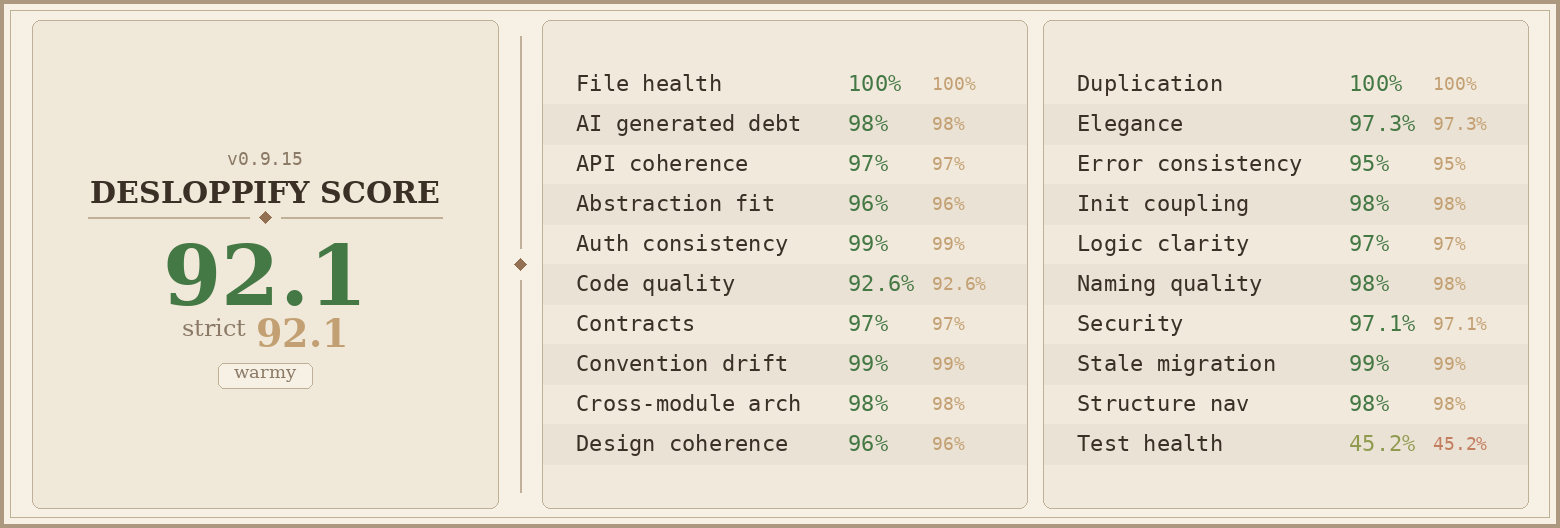
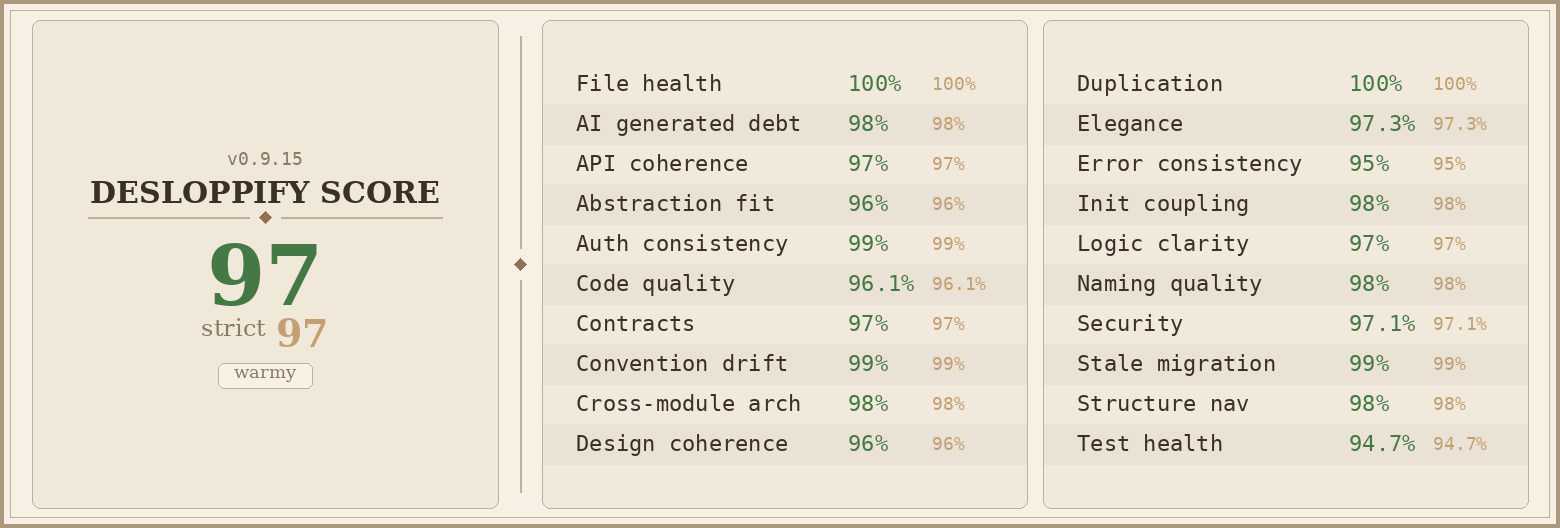
test: add tests for all command modules (16 files, 80 tests)
Add comprehensive tests for init.ts, status.ts, uninstall.ts, config.ts
commands. Each module now has dedicated tests with properly mocked
dependencies.

Changed region(s): [[0.0923, 0.4545, 0.2462, 0.6667], [0.8615, 0.8182, 0.9538, 0.8485], [0.5538, 0.5152, 0.5846, 0.5455]]

diff --git a/tests/commands/status.test.ts b/tests/commands/status.test.ts
@@ -1,0 +1,75 @@
+import { describe, it, vi, beforeEach, expect } from "vitest";
+
+vi.mock("../../dist/config.js", () => ({
+  loadConfig: vi.fn(),
+  getConfigPath: vi.fn().mockReturnValue("/tmp/.warmy/config.json"),
+}));
+vi.mock("../../dist/scheduler/index.js", () => ({ isSchedulerInstalled: vi.fn() }));
+vi.mock("fs", () => ({ existsSync: vi.fn() }));
+
+const STATUS_PATH = "/home/slay/projects/experiments/warmy/warmy/dist/commands/status.js";
+
+describe("status", () => {
+  beforeEach(() => { vi.clearAllMocks(); });
+
+  it("should show scheduler status", async () => {
+    const { loadConfig } = await import("../../dist/config.js");
+    const { isSchedulerInstalled } = await import("../../dist/scheduler/index.js");
+    vi.mocked(loadConfig).mockResolvedValue({
+      scheduleTime: "06:00", claudeEnabled: true, codexEnabled: false,
+      lastRun: null, lastWarmupAt: { claude: null, codex: null },
+      warmupIntervalSeconds: 18060, warmupMessage: "Hello",
+      lastResult: { claude: null, codex: null }
+    });
+    vi.mocked(isSchedulerInstalled).mockResolvedValue(true);
+
+    const consoleSpy = vi.spyOn(console, "log").mockImplementation(() => {});
+    const { status } = await import(STATUS_PATH);
+    await status();
+    expect(consoleSpy).toHaveBeenCalledWith(expect.stringContaining("Scheduler"));
+    consoleSpy.mockRestore();
+  });
+
+  it("should show next warmup when available", async () => {
+    const { loadConfig } = await import("../../dist/config.js");
+    const { isSchedulerInstalled } = await import("../../dist/scheduler/index.js");
+    vi.mocked(loadConfig).mockResolvedValue({
+      scheduleTime: "06:00", claudeEnabled: true, codexEnabled: true,
+      lastRun: null,
+      lastWarmupAt: { claude: "2026-01-01T00:00:00.000Z", codex: "2026-01-01T01:00:00.000Z" },
+      warmupIntervalSeconds: 18060, warmupMessage: "Hello",
+      lastResult: { claude: null, codex: null }
+    });
+    vi.mocked(isSchedulerInstalled).mockResolvedValue(false);
+
+    const consoleSpy = vi.spyOn(console, "log").mockImplementation(() => {});
+    const { status } = await import(STATUS_PATH);
+    await status();
+    expect(consoleSpy).toHaveBeenCalledWith(expect.stringContaining("Claude next"));
+    expect(consoleSpy).toHaveBeenCalledWith(expect.stringContaining("Codex next"));
+    consoleSpy.mockRestore();
+  });
+
+  it("should show last results", async () => {
+    const { loadConfig } = await import("../../dist/config.js");
+    const { isSchedulerInstalled } = await import("../../dist/scheduler/index.js");
+    vi.mocked(loadConfig).mockResolvedValue({
+      scheduleTime: "06:00", claudeEnabled: true, codexEnabled: true,
+      lastRun: "2026-01-01T00:00:00.000Z",
+      lastWarmupAt: { claude: null, codex: null },
+      warmupIntervalSeconds: 18060, warmupMessage: "Hello",
+      lastResult: {
+        claude: { success: true, timestamp: "2026-01-01T00:00:00.000Z" },
+        codex: { success: false, timestamp: "2026-01-01T01:00:00.000Z" }
+      }
+    });
+    vi.mocked(isSchedulerInstalled).mockResolvedValue(true);
+
+    const consoleSpy = vi.spyOn(console, "log").mockImplementation(() => {});
+    const { status } = await import(STATUS_PATH);
+    await status();
+    expect(consoleSpy).toHaveBeenCalledWith(expect.stringContaining("Claude result"));
+    expect(consoleSpy).toHaveBeenCalledWith(expect.stringContaining("Codex result"));
+    consoleSpy.mockRestore();
+  });
+});

diff --git a/tests/commands/uninstall.test.ts b/tests/commands/uninstall.test.ts
@@ -1,0 +1,52 @@
+import { describe, it, vi, beforeEach, expect } from "vitest";
+
+vi.mock("../../dist/config.js", () => ({
+  getConfigPath: vi.fn().mockReturnValue("/tmp/.warmy/config.json"),
+}));
+vi.mock("../../dist/scheduler/index.js", () => ({ uninstallScheduler: vi.fn() }));
+vi.mock("../../dist/keyring.js", () => ({ removeToken: vi.fn() }));
+
+const UNINSTALL_PATH = "/home/slay/projects/experiments/warmy/warmy/dist/commands/uninstall.js";
+
+describe("uninstall", () => {
+  beforeEach(() => { vi.clearAllMocks(); });
+
+  it("should uninstall scheduler and remove tokens and config", async () => {
+    const { uninstallScheduler } = await import("../../dist/scheduler/index.js");
+    const { removeToken } = await import("../../dist/keyring.js");
+    vi.mocked(uninstallScheduler).mockResolvedValue(undefined);
+    vi.mocked(removeToken).mockResolvedValue(true);
+
+    const consoleSpy = vi.spyOn(console, "log").mockImplementation(() => {});
+    const { uninstall } = await import(UNINSTALL_PATH);
+    await uninstall();
+
+    expect(uninstallScheduler).toHaveBeenCalled();
+    expect(removeToken).toHaveBeenCalledWith("claude");
+    expect(removeToken).toHaveBeenCalledWith("codex");
+    expect(consoleSpy).toHaveBeenCalledWith(expect.stringContaining("Scheduler removed"));
+    expect(consoleSpy).toHaveBeenCalledWith(expect.stringContaining("Tokens removed"));
+    consoleSpy.mockRestore();
+  });
+
+  it("should handle scheduler failure gracefully", async () => {
+    const { uninstallScheduler } = await import("../../dist/scheduler/index.js");
+    const { removeToken } = await import("../../dist/keyring.js");
+    vi.mocked(uninstallScheduler).mockRejectedValue(new Error("no cron"));
+    vi.mocked(removeToken).mockResolvedValue(true);
+
+    const { uninstall } = await import(UNINSTALL_PATH);
+    await expect(uninstall()).resolves.not.toThrow();
+    expect(removeToken).toHaveBeenCalled();
+  });
+
+  it("should handle all failures gracefully", async () => {
+    const { uninstallScheduler } = await import("../../dist/scheduler/index.js");
+    const { removeToken } = await import("../../dist/keyring.js");
+    vi.mocked(uninstallScheduler).mockRejectedValue(new Error("no cron"));
+    vi.mocked(removeToken).mockRejectedValue(new Error("no keychain"));
+
+    const { uninstall } = await import(UNINSTALL_PATH);
+    await expect(uninstall()).resolves.not.toThrow();
+  });
+});

diff --git a/tests/commands/config.test.ts b/tests/commands/config.test.ts
@@ -1,0 +1,39 @@
+import { describe, it, vi, beforeEach, expect } from "vitest";
+
+vi.mock("../../dist/config.js", () => ({
+  loadConfig: vi.fn(),
+  saveConfig: vi.fn(),
+  getConfigPath: vi.fn().mockReturnValue("/tmp/.warmy/config.json"),
+}));
+vi.mock("fs", () => ({ existsSync: vi.fn() }));
+
+const CONFIG_PATH = "/home/slay/projects/experiments/warmy/warmy/dist/commands/config.js";
+
+describe("setMessage", () => {
+  beforeEach(() => { vi.clearAllMocks(); });
+
+  it("should save custom message to config", async () => {
+    const { loadConfig, saveConfig } = await import("../../dist/config.js");
+    vi.mocked(loadConfig).mockResolvedValue({
+      scheduleTime: "06:00", claudeEnabled: false, codexEnabled: false,
+      lastRun: null, lastWarmupAt: { claude: null, codex: null },
+      warmupIntervalSeconds: 18060, warmupMessage: "Hello",
+      lastResult: { claude: null, codex: null }
+    });
+
+    const consoleSpy = vi.spyOn(console, "log").mockImplementation(() => {});
+    const { setMessage } = await import(CONFIG_PATH);
+    await setMessage("Custom warmup message");
+    expect(vi.mocked(saveConfig).mock.calls[0][0].warmupMessage).toBe("Custom warmup message");
+    expect(consoleSpy).toHaveBeenCalledWith(expect.stringContaining("Custom warmup message"));
+    consoleSpy.mockRestore();
+  });
+
+  it("should show usage when message is empty", async () => {
+    const consoleSpy = vi.spyOn(console, "error").mockImplementation(() => {});
+    const { setMessage } = await import(CONFIG_PATH);
+    await setMessage("");
+    expect(consoleSpy).toHaveBeenCalledWith(expect.stringContaining("Usage"));
+    consoleSpy.mockRestore();
+  });
+});

diff --git a/tests/commands/init.test.ts b/tests/commands/init.test.ts
@@ -1,0 +1,34 @@
+import { describe, it, vi, beforeEach, expect } from "vitest";
+
+vi.mock("../../dist/detectors/claude.js", () => ({ isClaudeInstalled: vi.fn() }));
+vi.mock("../../dist/detectors/codex.js", () => ({ isCodexInstalled: vi.fn() }));
+vi.mock("../../dist/config.js", () => ({
+  loadConfig: vi.fn(),
+  saveConfig: vi.fn(),
+  getWarmyDir: vi.fn().mockReturnValue("/tmp/.warmy"),
+  getConfigPath: vi.fn().mockReturnValue("/tmp/.warmy/config.json"),
+  getPlatform: vi.fn().mockReturnValue("linux"),
+  WARMUP_INTERVAL_SECONDS: 18060,
+  WarmyConfig: {}
+}));
+vi.mock("../../dist/scheduler/index.js", () => ({ installScheduler: vi.fn() }));
+vi.mock("readline", () => ({ createInterface: vi.fn() }));
+
+const INIT_PATH = "/home/slay/projects/experiments/warmy/warmy/dist/commands/init.js";
+
+describe("init", () => {
+  beforeEach(() => { vi.clearAllMocks(); });
+
+  it("should show not-found when no CLIs installed", async () => {
+    const { isClaudeInstalled } = await import("../../dist/detectors/claude.js");
+    const { isCodexInstalled } = await import("../../dist/detectors/codex.js");
+    vi.mocked(isClaudeInstalled).mockReturnValue(false);
+    vi.mocked(isCodexInstalled).mockReturnValue(false);
+
+    const consoleSpy = vi.spyOn(console, "error").mockImplementation(() => {});
+    const { init } = await import(INIT_PATH);
+    await init();
+    expect(consoleSpy).toHaveBeenCalledWith(expect.stringContaining("Nothing to warm up"));
+    consoleSpy.mockRestore();
+  });
+});